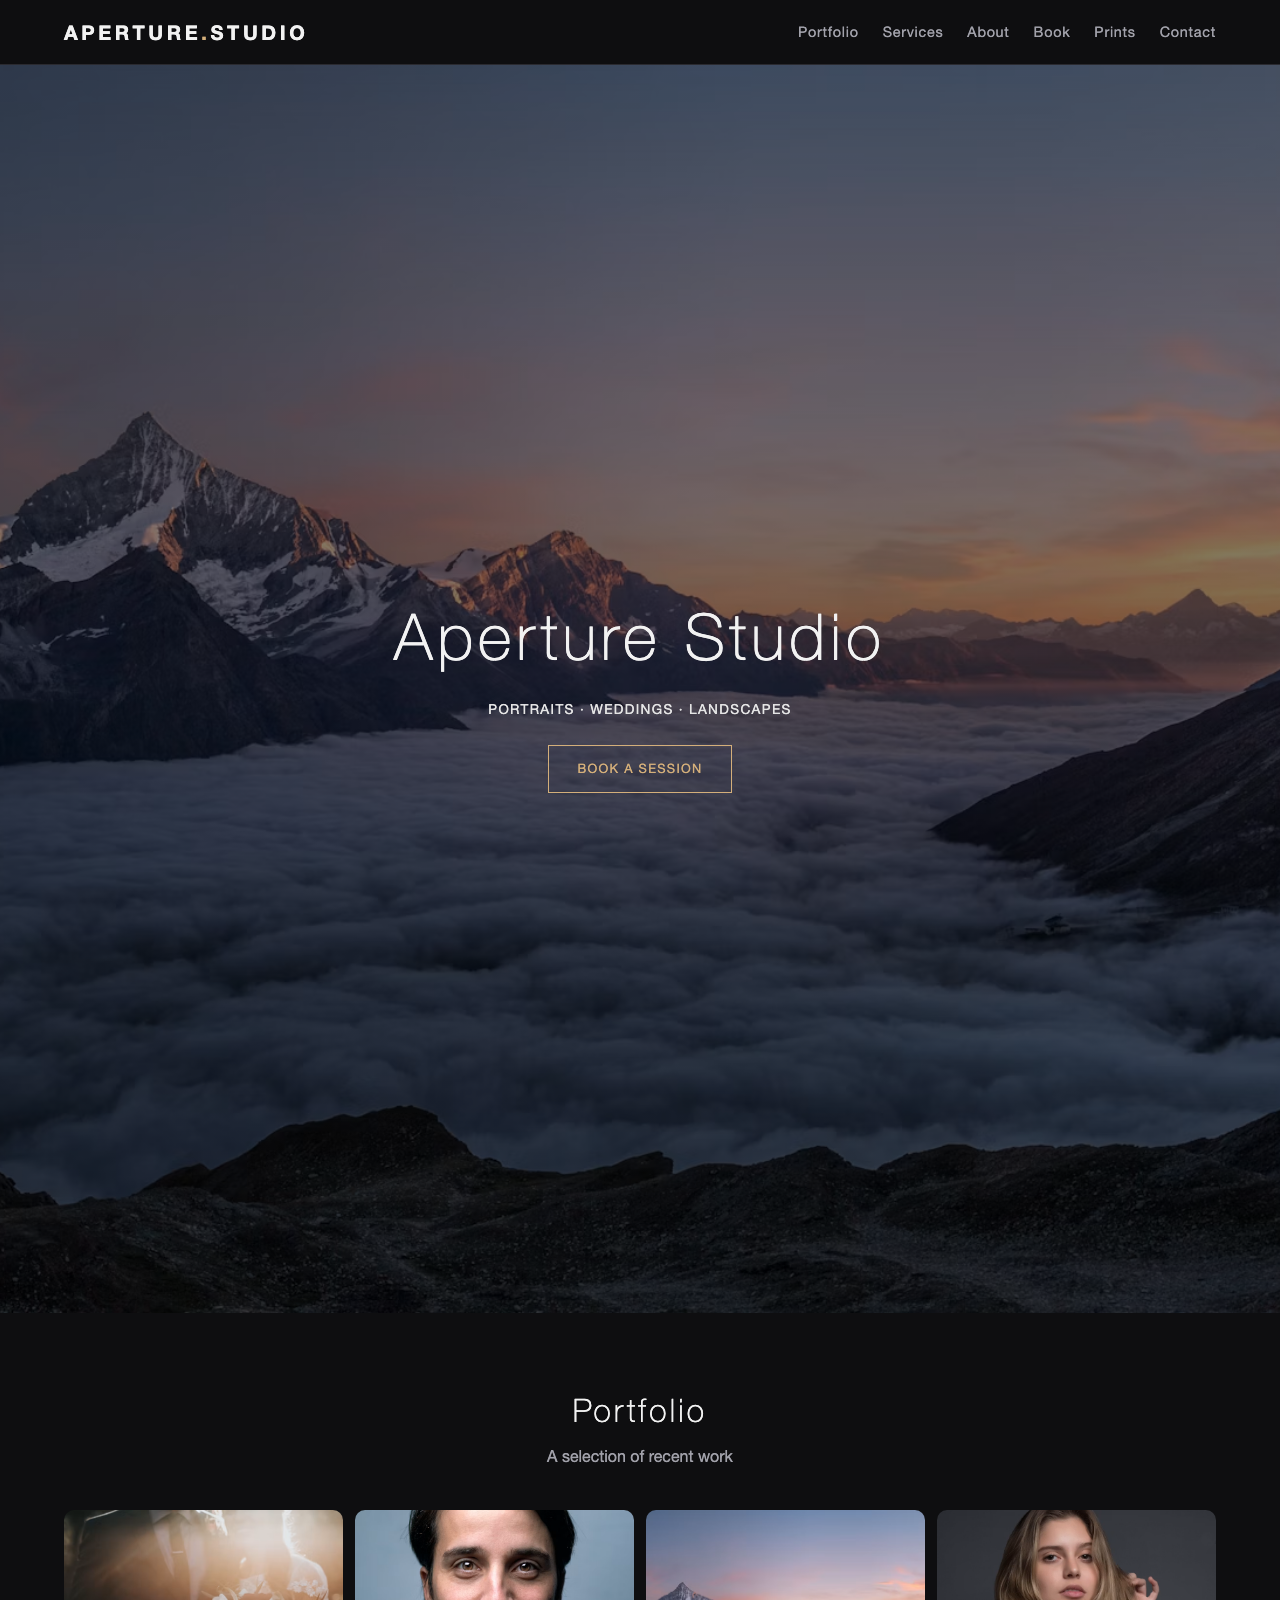
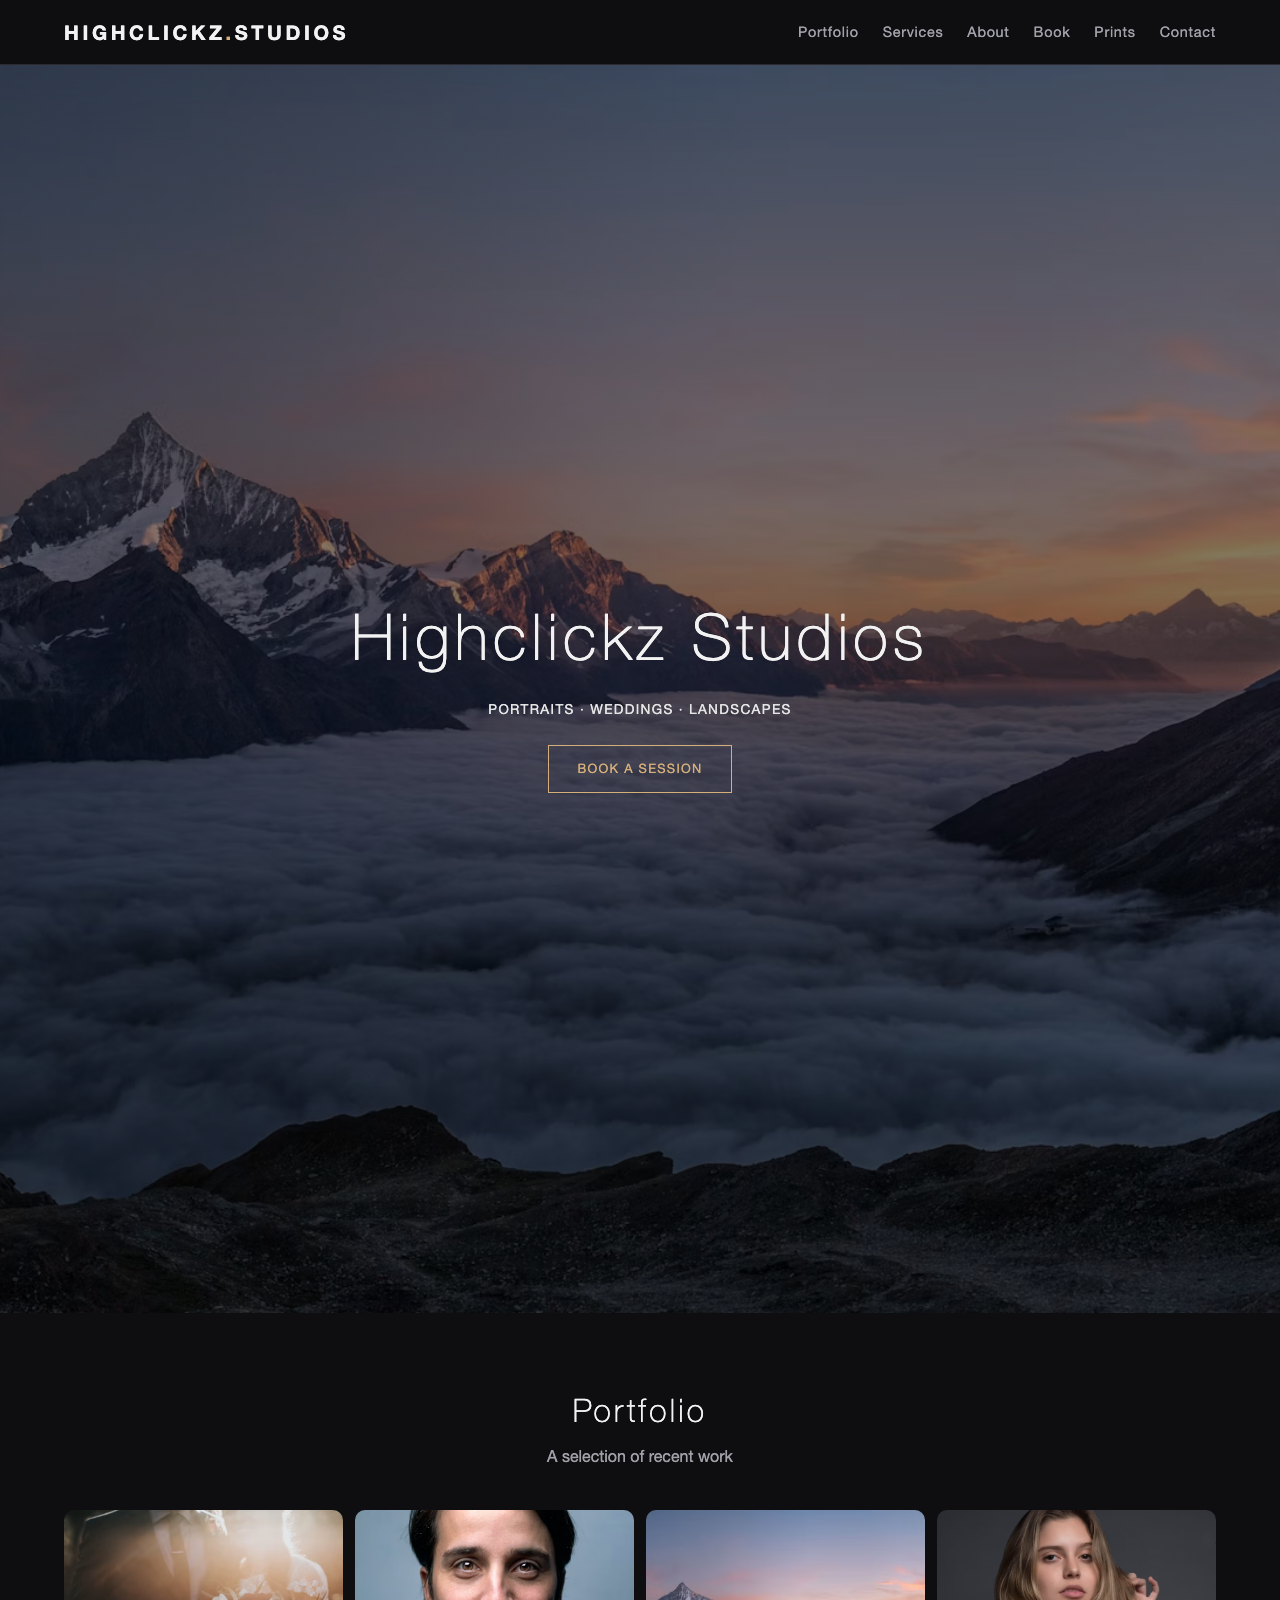
Rebrand site to Highclickz Studios

Changed region(s): [[0.2812, 0.375, 0.7188, 0.4375], [0.0625, 0.0, 0.2812, 0.0312]]

diff --git a/index.html b/index.html
@@ -3,11 +3,11 @@
 <head>
   <meta charset="UTF-8" />
   <meta name="viewport" content="width=device-width, initial-scale=1.0" />
-  <title>Aperture Studio — Photography</title>
+  <title>Highclickz Studios — Photography</title>
   <meta name="description" content="Portrait, wedding, and landscape photography. View the portfolio, book a session, and order prints." />
 
   <!-- Open Graph (social sharing preview) -->
-  <meta property="og:title" content="Aperture Studio — Photography" />
+  <meta property="og:title" content="Highclickz Studios — Photography" />
   <meta property="og:description" content="Portrait, wedding, and landscape photography." />
   <meta property="og:type" content="website" />
 
@@ -18,7 +18,7 @@
   <!-- Header -->
   <header class="site-header">
     <div class="container nav">
-      <a href="#top" class="brand">Aperture<span>.</span>Studio</a>
+      <a href="#top" class="brand">Highclickz<span>.</span>Studios</a>
       <button class="nav-toggle" aria-label="Menu">&#9776;</button>
       <ul class="nav-links">
         <li><a href="#portfolio">Portfolio</a></li>
@@ -34,7 +34,7 @@
   <!-- Hero -->
   <section class="hero" id="top" style="padding:0;">
     <div>
-      <h1>Aperture Studio</h1>
+      <h1>Highclickz Studios</h1>
       <p>Portraits · Weddings · Landscapes</p>
       <a href="#book" class="btn">Book a session</a>
     </div>
@@ -87,7 +87,7 @@
       <img src="https://images.unsplash.com/photo-1502680390469-be75c86b636f?auto=format&fit=crop&w=600&q=70" alt="The photographer" />
       <div>
         <h2 class="section-title" style="text-align:left;">About</h2>
-        <p>Hi, I'm the photographer behind Aperture Studio. For the last several years I've been capturing the moments that matter — weddings, portraits, and the quiet beauty of landscapes.</p>
+        <p>Hi, I'm the photographer behind Highclickz Studios. For the last several years I've been capturing the moments that matter — weddings, portraits, and the quiet beauty of landscapes.</p>
         <p>My style is natural, warm, and honest. I want your photos to feel like the moment felt, not staged. Let's make something you'll treasure.</p>
         <a href="#contact" class="btn">Get in touch</a>
       </div>
@@ -176,7 +176,7 @@
   <!-- Footer -->
   <footer class="site-footer">
     <div class="container">
-      <p>© <span id="year"></span> Aperture Studio · Built with a
+      <p>© <span id="year"></span> Highclickz Studios · Built with a
         <a href="https://github.com/varun-doode/photography-starter">free starter template</a></p>
     </div>
   </footer>
